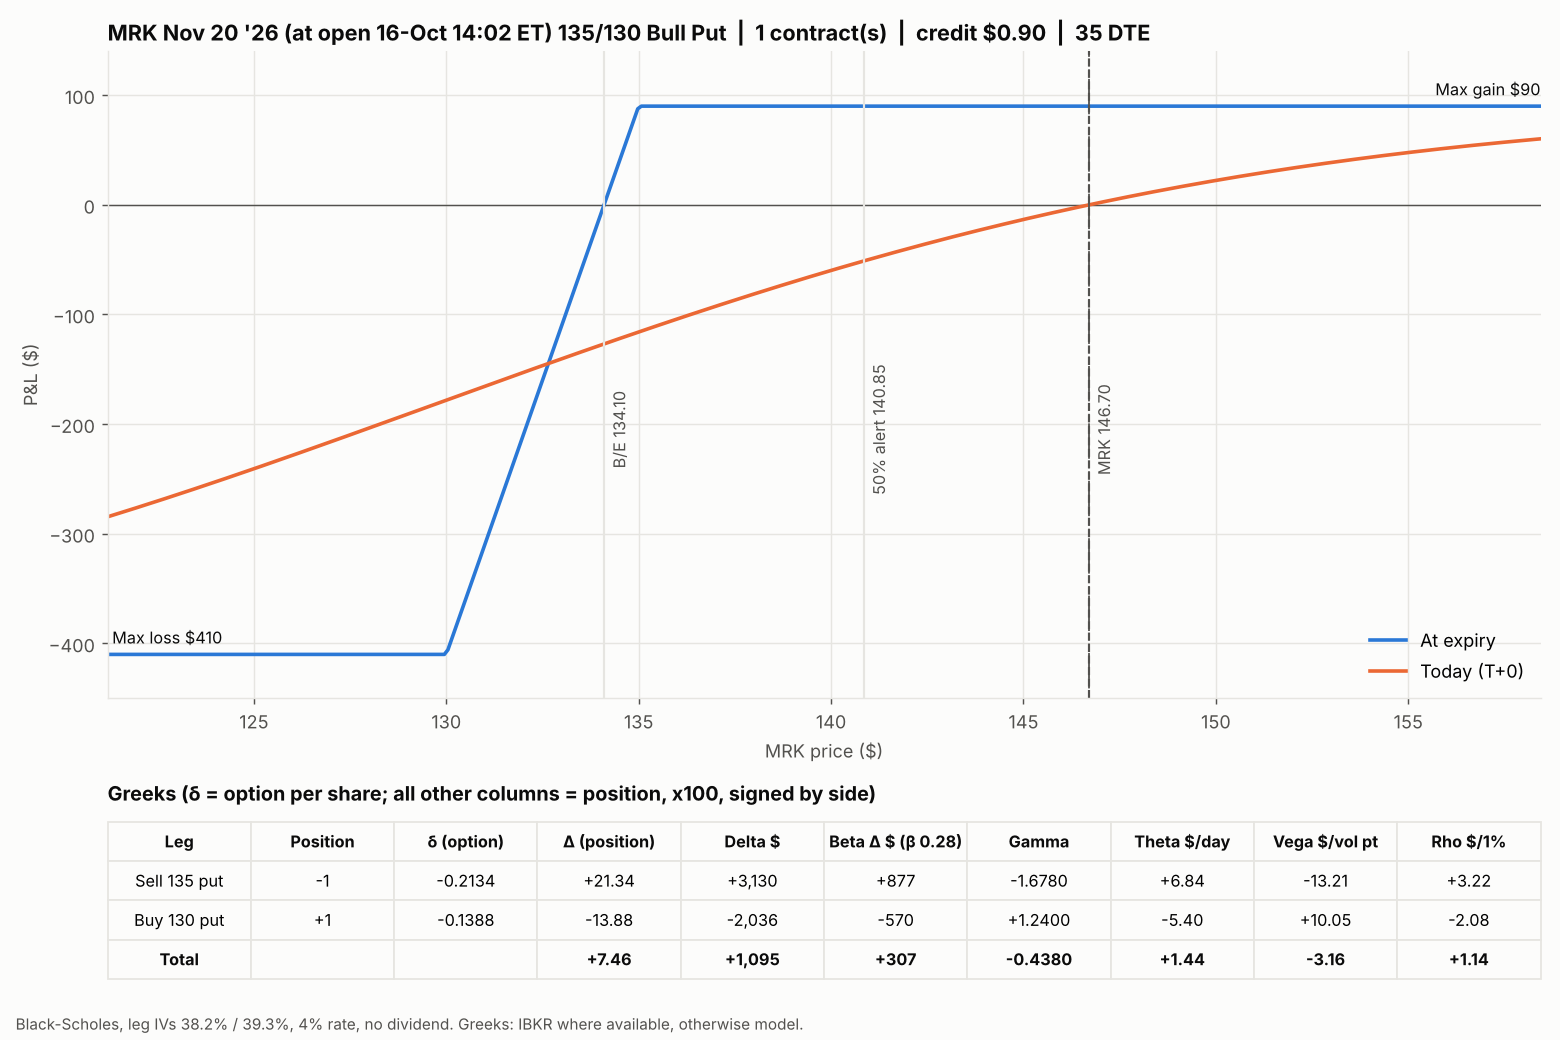
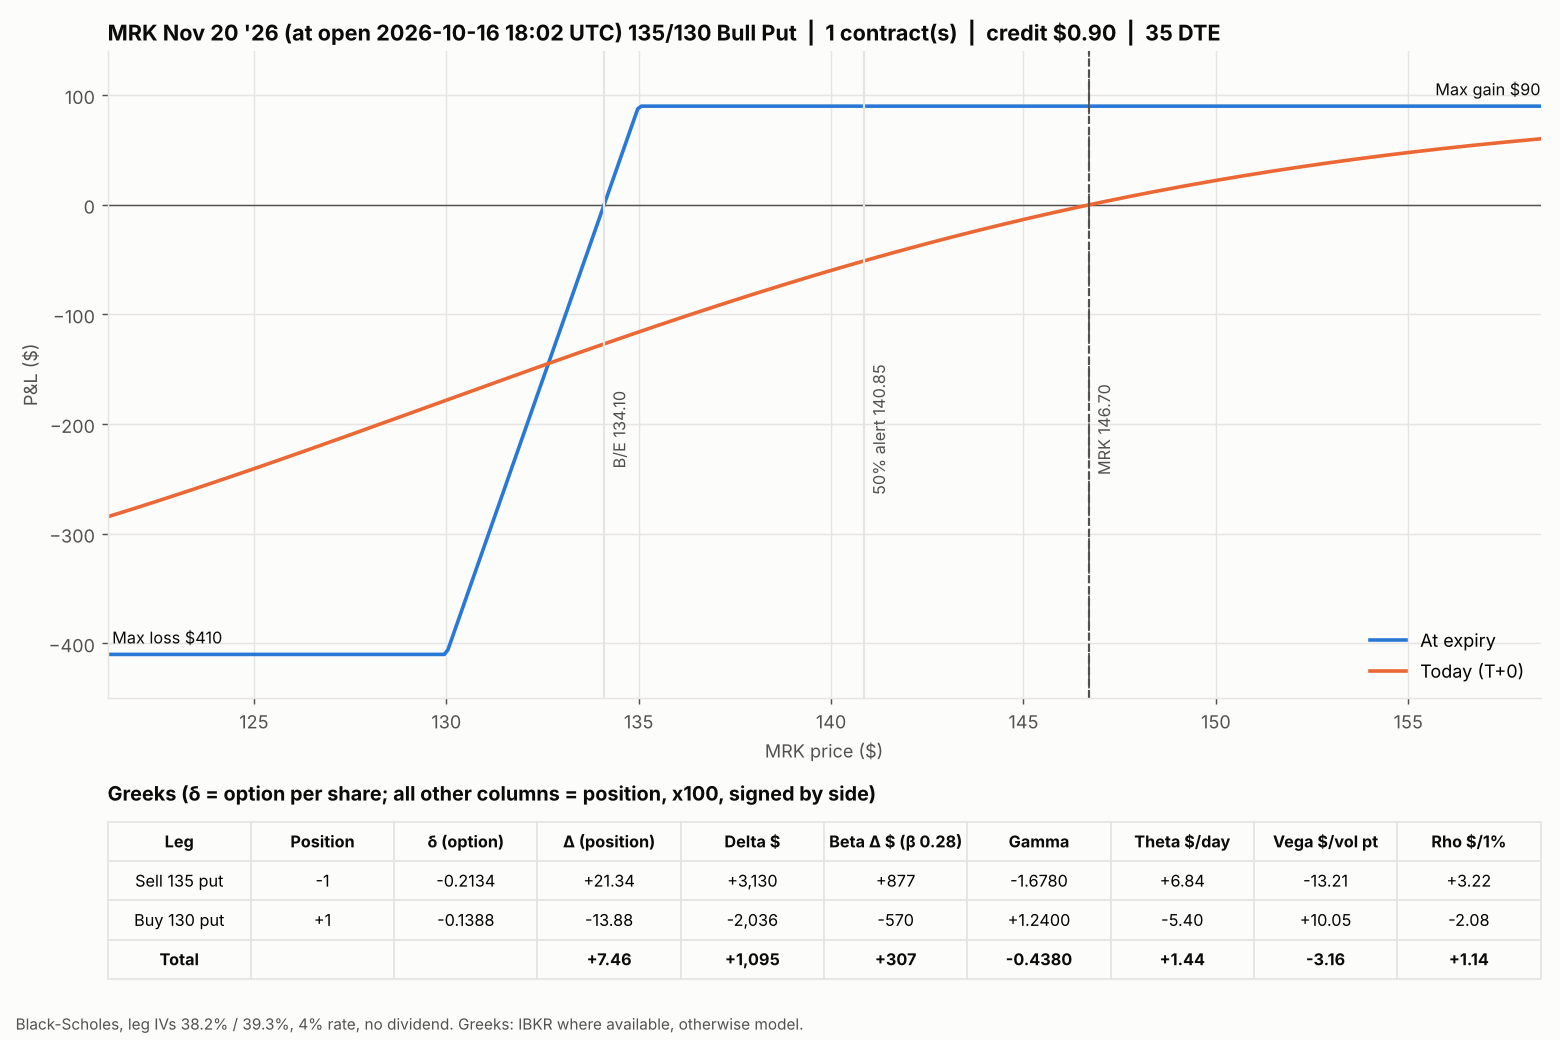
Add entry-time blocks and charts for all open bull put spreads
Claude-Session: https://claude.ai/code/session_01FtgXF3B8kbNGSWUt2ybbKy

Changed region(s): [[0.2462, 0.0, 0.7692, 0.0615]]

diff --git a/charts/entry_blocks.py b/charts/entry_blocks.py
@@ -1,0 +1,91 @@
+"""Bull put spread blocks at entry, built from fill prices and IBKR historical bars.
+
+Prints the calculator block, greeks table and scenario table for each trade, plus the
+command line used to render its chart with spread_chart.py.
+"""
+import math
+from datetime import date
+
+N = lambda x: 0.5 * (1 + math.erf(x / math.sqrt(2)))
+n = lambda x: math.exp(-x * x / 2) / math.sqrt(2 * math.pi)
+R = 0.04
+
+# ticker, opened (UTC), expiry, stock at fill, short K, short fill, long K, long fill, qty,
+# ATM strike, ATM call, ATM put, beta
+TRADES = [
+    ("SPY", "2026-10-07 13:55", date(2026, 11, 20), 774.95, 735, 4.23, 730, 3.76, 2, 775, 16.60, 12.95, 1.00),
+    ("AAPL", "2026-10-07 17:13", date(2026, 11, 20), 336.05, 305, 2.52, 300, 1.96, 2, 335, 13.25, 10.70, 1.09),
+    ("AMZN", "2026-10-08 13:39", date(2026, 11, 20), 259.40, 230, 3.03, 225, 2.31, 1, 260, 13.65, 13.10, 1.46),
+    ("MSFT", "2026-10-12 17:57", date(2026, 10, 30), 540.05, 505, 4.35, 500, 3.55, 1, 540, 17.28, 15.50, 1.13),
+    ("MRK", "2026-10-16 18:02", date(2026, 11, 20), 146.70, 135, 2.23, 130, 1.33, 1, 145, 7.40, 5.50, 0.28),
+    ("PLTR", "2026-10-19 17:39", date(2026, 11, 20), 195.50, 165, 3.725, 160, 2.925, 2, 195, 14.90, 13.74, 1.57),
+    ("DIS", "2026-10-20 19:11", date(2026, 11, 20), 111.30, 100, 0.86, 95, 0.36, 2, 110, 5.25, 3.50, 1.10),
+]
+
+
+def bs(S, K, T, s, call):
+    d1 = (math.log(S / K) + (R + s * s / 2) * T) / (s * math.sqrt(T))
+    d2 = d1 - s * math.sqrt(T)
+    c = S * N(d1) - K * math.exp(-R * T) * N(d2)
+    p = c - S + K * math.exp(-R * T)
+    th = (-S * n(d1) * s / (2 * math.sqrt(T)) + R * K * math.exp(-R * T) * N(-d2)) / 365
+    return dict(price=c if call else p, delta=N(d1) - (0 if call else 1),
+                gamma=n(d1) / (S * s * math.sqrt(T)), theta=th,
+                vega=S * n(d1) * math.sqrt(T) / 100)
+
+
+def iv(S, K, T, price, call):
+    lo, hi = 0.01, 3.0
+    for _ in range(100):
+        m = (lo + hi) / 2
+        lo, hi = (lo, m) if bs(S, K, T, m, call)["price"] > price else (m, hi)
+    return m
+
+
+def pnl(S, T, KS, IVS, KL, IVL, credit, M):
+    leg = lambda K, s: max(K - S, 0) if T <= 0 else bs(S, K, T, s, False)["price"]
+    return (leg(KL, IVL) - leg(KS, IVS) + credit) * M
+
+
+for (tkr, opened, exp, S, KS, PS, KL, PL, Q, KA, CA, PA, beta) in TRADES:
+    d0 = date.fromisoformat(opened[:10])
+    dte = (exp - d0).days
+    T = dte / 365
+    M = 100 * Q
+    credit = round(PS - PL, 4)
+    width = KS - KL
+    gain, loss = credit * M, (width - credit) * M
+    be = KS - credit
+    ret = credit / (width - credit)
+    ivs, ivl = iv(S, KS, T, PS, False), iv(S, KL, T, PL, False)
+    atm = (iv(S, KA, T, CA, True) + iv(S, KA, T, PA, False)) / 2
+    sd = S * atm * math.sqrt(T)
+    strad = CA + PA
+    alert = (S + KS) / 2
+    gs, gl = bs(S, KS, T, ivs, False), bs(S, KL, T, ivl, False)
+    exp_s = exp.strftime("%d-%b-%y")
+    print(f"\n===== {tkr} =====")
+    print(f"{tkr} Bull Put Spread | {KS:g}/{KL:g} | Exp {exp_s} ({dte} DTE at open) | {Q} contract{'s' if Q > 1 else ''}")
+    print(f"Opened:             {opened} UTC")
+    print(f"Stock price:        ${S:.2f}  (at fill)")
+    print(f"Net credit:         ${credit:.2f} per spread  (${gain:,.0f} total)  [your fill]")
+    print(f"Max gain:           ${gain:,.0f}")
+    print(f"Max loss:           ${loss:,.0f}")
+    print(f"Risk to reward:     {(width - credit) / credit:.2f} : 1")
+    print(f"Win rate needed to break even: {(width - credit) / width:.0%}")
+    print(f"Breakeven:          ${be:.2f}")
+    print(f"% return on risk:   {ret:.2%}")
+    print(f"% return annualized: {ret * 365 / dte:.2%}  (simple, 365/{dte})")
+    print(f"Decline to B/E:     {be / S - 1:.2%}")
+    print(f"Decline to short strike: {KS / S - 1:.2%}")
+    print(f"Expected move 1 SD (~68%):  ±${sd:.2f} (±{sd / S:.2%})  Top ${S + sd:.2f}  Bottom ${S - sd:.2f}")
+    print(f"Expected move 2 SD (~95%):  ±${2 * sd:.2f} (±{2 * sd / S:.2%})  Top ${S + 2 * sd:.2f}  Bottom ${S - 2 * sd:.2f}")
+    print(f"Expected move straddle:     ±${strad:.2f} (±{strad / S:.2%})  Top ${S + strad:.2f}  Bottom ${S - strad:.2f}")
+    print(f"50% alert:          ${alert:.2f}  ({alert / S - 1:.2%})")
+    print(f"Stop loss (2x premium): close at ${3 * credit:.2f} debit  (loss ${2 * credit * M:,.0f})")
+    print(f"[ATM IV {atm:.1%}; leg IVs {ivs:.1%} / {ivl:.1%}; short-put delta {gs['delta']:.3f}]")
+    print("CHART:", " ".join(str(x) for x in (
+        f"{tkr}_{KS:g}_{KL:g}_bull_put.png", tkr, f"\"{exp.strftime('%b %d')} '26 (at open {opened} UTC)\"",
+        S, dte, KS, round(ivs, 4), KL, round(ivl, 4), credit, Q,
+        round(gs["delta"], 5), round(gs["gamma"], 5), round(gs["theta"], 5), round(gs["vega"], 5),
+        round(gl["delta"], 5), round(gl["gamma"], 5), round(gl["theta"], 5), round(gl["vega"], 5), beta)))
